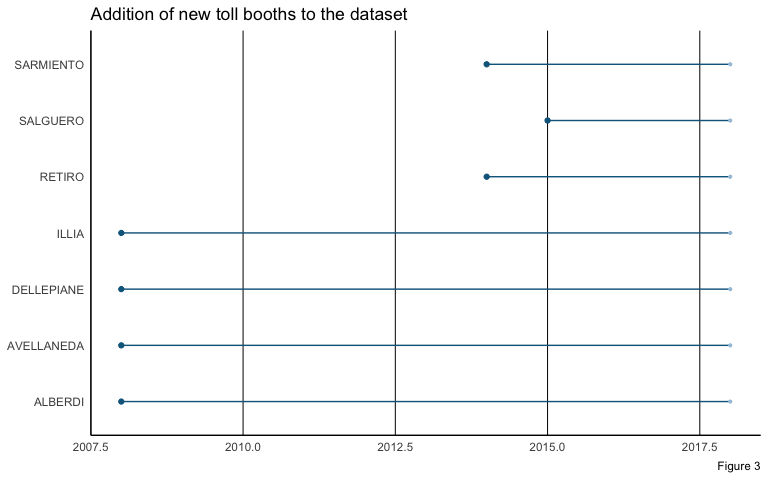
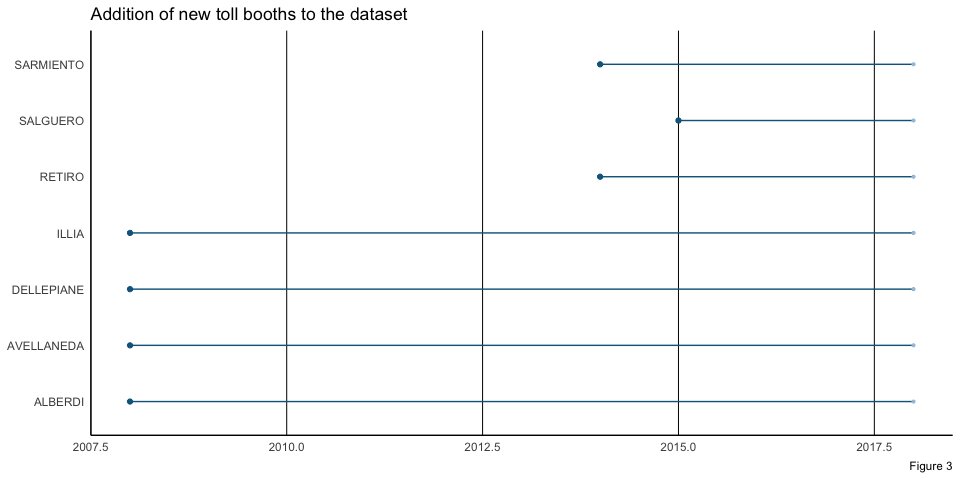
Refactored everything into the notebook. Added clearer graphs.

diff --git a/README.md b/README.md
@@ -13,7 +13,7 @@ This project consists on analyzing the evolution of traffic on AUSA toll booths 
 
 -   Unzip the `Flujo-Vehicular-por-Unidades-de-Peaje-AUSA.zip` file provided by the [Buenos Aires Data](https://data.buenosaires.gob.ar/dataset/flujo-vehicular-por-unidades-de-peaje-ausa) site. This .zip file contains eleven .csv files.
 -   Run the `standardize.values()` function from `utils.R`. This function will perform certain transformations in the unzipped .csv files, and will generate a file called `traffic.csv`. This function takes some minutes to finish (approximately 5 minutes).
--   For details on how graphs were generated, please take a look at `README.Rmd`, and the two files under `src/`.
+-   For details on how graphs were generated, please take a look at `README.Rmd` and `src/utils.R`.
 
 ### Structure of the data to use
 
@@ -92,11 +92,12 @@ In the end, the first rows from the data set being used look like this:
 
 ### Exploratory analysis
 
-The analysis to be presented in this section has the objective of getting to know better the data set, and will consist primarily on three areas:
+The analysis to be presented in this section has the objective of getting to know better the data set, and will consist primarily on four areas:
 
 -   The increment in the number of observations that happens during 2014.
 -   The hourly patterns vehicle follow in and out of the city of Buenos Aires.
 -   The distribution of drivers committing infractions.
+-   The change on how drivers pay in toll booths along the years.
 
 #### Increment in traffic
 
@@ -111,17 +112,17 @@ cd ~/Documents/traffic/datasets/flujo-vehicular-por-unidades-de-peaje-ausa
 find . -name '*.csv' -exec wc -l {} \;
 ```
 
-    ##   140517 ./flujo-vehicular-2008.csv
+    ##   847751 ./flujo-vehicular-2018.csv
     ##   140161 ./flujo-vehicular-2009.csv
-    ##   140149 ./flujo-vehicular-2010.csv
-    ##   140157 ./flujo-vehicular-2011.csv
+    ##   140517 ./flujo-vehicular-2008.csv
     ##   140533 ./flujo-vehicular-2012.csv
     ##   215868 ./flujo-vehicular-2013.csv
+    ##   140157 ./flujo-vehicular-2011.csv
+    ##   140149 ./flujo-vehicular-2010.csv
     ##   908847 ./flujo-vehicular-2014.csv
     ##  1048576 ./flujo-vehicular-2015.csv
-    ##  1040856 ./flujo-vehicular-2016.csv
     ##  1030020 ./flujo-vehicular-2017.csv
-    ##   847751 ./flujo-vehicular-2018.csv
+    ##  1040856 ./flujo-vehicular-2016.csv
 
 This order of magnitude of difference in the number of observations can't be explained with a real increase of such amount in the number of cars going in and out the city, as that would mean and increase of ten times the amount of vehicles in the period 2012-2014. I posted a [question](http://disq.us/p/1ynoflv) on the [web site](https://data.buenosaires.gob.ar/dataset/flujo-vehicular-por-unidades-de-peaje-ausa) that provides the information, asking for clarifications.
 
@@ -131,7 +132,7 @@ Looking deeper into the increment, a breakdown per toll booth name was performed
 
 ![](README_files/figure-markdown_github/timeframes-1.png)
 
-Another point worth mentioning for this section is whether there's a difference between the *Illia* toll booth and the *Retiro* one. Geographically, the *Retiro* toll booth is located in the *President Arturo Umberto Illia* highway, however there are no signs of where the *Illia* toll booth could be. In the beginning one hypothesis was that there was a change in names, so that both names refer to the same toll booth, but as shown in both Figure 2 and 3, *Illia* has been on since the first 2008 file, and it wasn't until 2014 that *Retiro* started to appear in files, with a low contribution. Given this context, and after finding no information in the news, there two toll booths will be considered as one for all analysis.
+Another point worth mentioning for this section is whether there's a difference between the *Illia* toll booth and the *Retiro* one. Geographically, the *Retiro* toll booth is located in the *President Arturo Umberto Illia* highway, however there are no signs of where the *Illia* toll booth could be. In the beginning one hypothesis was that there was a change in names, so that both names refer to the same toll booth, but as shown in both Figure 2 and 3, *Illia* has been on since the first 2008 file, and it wasn't until 2014 that *Retiro* started to appear in files, with a low contribution. Given this context, and after finding no information in the news, there two toll booths will be considered separately, as the contribution of *Retiro* will not change the behavior of *Illia*.
 
 Lastly, it's important to highlight a difference between the seven toll booths present in this data set. The group of *Alberdi*, *Avellaneda*, *Dellepiane* and *Illia/Retiro* are toll booths located in highways, while the remaining Sarmiento and Salguero are actually outside the Illia highway. They are both entrance and exit to the Illia highway, and its only payment method is via AUPASS (which is the automatic option). This is shown in Figure 4, where both *Sarmiento* and *Salguero* have no cash-related payment method.
 
@@ -139,25 +140,29 @@ Lastly, it's important to highlight a difference between the seven toll booths p
 
 #### Volume of traffic during the day
 
-Traffic flow holds a pattern for each toll booth. Performing an hourly breakdown of traffic for the Alberdi tool booth, shown in the following graph, two traffic peaks can be identified: one around 8am and another one around 6pm. This matches with the times people is commuting to an from work. Another interesting pattern is that traffic keeps relatively still between the time of the two peaks.
+In this section the data set will be analyzed for hourly patterns in traffic volume, with the objective to identify if there are common patterns shared by groups or all toll booths. It would be expected to see an increase in vehicles going through toll booths at peak times like 7-8am and 5-7pm, as those are times in which the vast majority of people commute to and from work.
 
-![](README_files/figure-markdown_github/breakdownalberdi-1.png)
+![](README_files/figure-markdown_github/totalvolumeofvehicles-1.png)
 
-The previous graph differentiates between the two different kinds of vehicles: motorbikes/cars and trucks. While both kinds show a similar behavior, the volume of motorbikes/cars is greater than the one of trucks. Although this behavior can be seen in other toll booths like Avellaneda or Sarmiento, there are cases like Retiro, where the amount of trucks is almost the same as the one of cars.
+Figure 4 shows the amount of vehicles going through Buenos Aires toll booths, with a breakdown per hour and vehicle type. The red solid line indicates light vehicles, like cars and motorbikes, while the dashed light blue line indicates heavy vehicles, like trucks. Looking at the behavior of both curves, the do have peaks at the two intervals of time mentioned before, but also there's a third peak that was unexpected for me in the beginning. The third peak happens between 12pm and 2pm, and could be related to people who start or finish their workday around that time.
 
-![](README_files/figure-markdown_github/breakdownretiro-1.png)
+![](README_files/figure-markdown_github/breakdownbytollbooth-1.png)
 
-Even though the volume of vehicles going through the Retiro toll booth is approximately three times smaller than the one of Alberdi, the ratio Liviano-Pesado (light-heavy) is greater. The reason for this is that Retiro is a a commercial route, located in the road to the Port of Buenos Aires, reason why the volume of heavy vehicles is greater than in other toll booths.
+From Figure 6 there are some aspects to analyze: \* It was know from Figure 2 that the *Avellaneda* toll booth was the one with more traffic, but the breakdown Figure 5 provides show that there's an incremental flow of vehicles going through this toll booth in from 7am to 6pm. This behavior is different to that of the rest of the toll booths. The fact that there are more vehicles going through the *Avellaneda* toll booth at 6pm than 7am could imply the Perito Moreno highway (which is where the *Avellaneda* toll booth is located) is a good option for leaving the Buenos Aires city, rather that entering the city. \* The second most used toll both is the *Illia* one (plus *Retiro*), which happens to be the one with the most clear peaks in traffic among all toll booths. Those can be seen a 8am and 6pm, which could imply this highway is mostly used for people commuting to and from their work. This is supported by the "valley" between those hours, where there is a reduction in traffic. Making a parallelism with the point made above for the *Avellaneda* toll booth, the *Illia/Retiro* one has a more balanced set of peaks, which can be interpreted as if the Presidente Arturo Umberto Illia highway is used by drivers both to enter and leave the city.
+
+The last set of patters that I wanted to analyze in this section was whether there are particular days during the year where traffic is either very high or very low compared to the average week day. Figure 7 shows the aggregate of traffic for each day of the year, taking into account all eleven files of data. Three horizontal lines feature in this graph, representing thresholds like 10% more than the mean, the mean and 10% less than the mean, in blue, red and green respectively. ![](README_files/figure-markdown_github/seasonalities-1.png)
+
+From the days above the blue line and below the green line, we can identify particular dates that explain why there was more (or less) amount of traffic than on a regular day. \* Starting with days with more than 10% of the usual traffic, we can find the winter holidays period spanning from July to August. \* On the other hand, days with less than 10% of the usual traffic are the first and last day of a given year, which can be explained by the fact that people are celebrating in their houses; the last week of the year, which includes the Christmas celebrations and the days before New Years Eve; holidays like May Revolution on May 25th, Labor Day on May 1st, Independence on July 9th, or Feast of the Immaculate Conception on December 8th.
 
 #### Drivers commiting infractions
 
-Another interesting aspect to analyze of this data set is the distribution of drivers committing infractions (id est, not paying when they cross the toll booth), and whether this is something that only happens for light vehicles or in heavy vehicles too. As a first step, .
+Among the many payment methods available in the data set, infractions is the only one which has a negative connotation, as it involves drives not paying the obligatory fee when crossing the toll booth. Figure 8 shows the distribution of infractions along the different toll booths. Those toll booths with more squares of their color are the ones where more infractions happen. *Salguero* and *Sarmiento* toll booths don't seem to be measuring this kind of phenomenon.
 
 ![](README_files/figure-markdown_github/distributionofinfractions-1.png)
 
-Below are two charts with the distribution of infractions for both Alberdi and Retiro. ![](README_files/figure-markdown_github/infractionsalberdi-1.png) ![](README_files/figure-markdown_github/infractionsretiro-1.png)
+However, it's expected that toll booths like Avellaneda, Dellepiane and Illia/Retiro have more infractions than the rest of the toll booths, as they have more traffic as per Figure 2. For this reason, Figure 9 shows the which is the relative percentage of infractions, as it takes into account the total traffic of each toll booth. Having such information shows that the toll booth where there are more infractions is the *Dellepiane* one, with approximately 0.6% of its traffic being only infractions.
 
-In both cases, the distribution of infractions seems to follow the same distribution of traffic throughout the day: the moments where there are more infractions correlate with those in which traffic volume is the highest.
+![](README_files/figure-markdown_github/relativeinfractions-1.png)
 
 ![](README_files/figure-markdown_github/evolutionofinfractions-1.gif)
 
